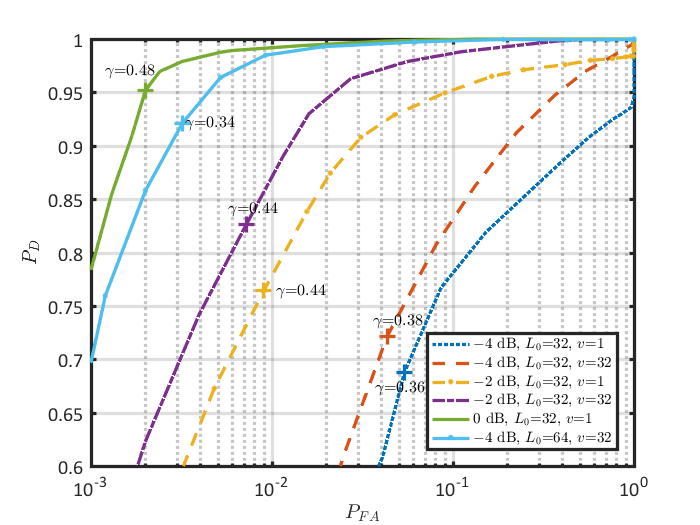
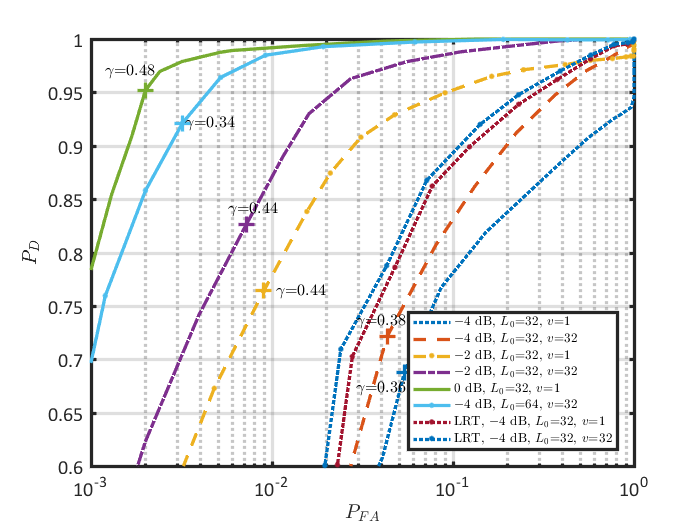
modification

Changed region(s): [[0.45, 0.2133, 0.9, 0.8838], [0.72, 0.0914, 0.87, 0.2133], [0.87, 0.061, 0.93, 0.0914]]

diff --git a/paper_3_10/freq_est.tex b/paper_3_10/freq_est.tex
@@ -58,9 +58,9 @@ In~\cite{Luise_Reggiannini_95}, the necessary condition is
 approximated by replacing the exponential with its Taylor series
 expansion. 
 In~\cite{Fitz_94}, an approximate solution is obtained via Euler's identity for large $N$.
-The estimators in Both~\cite{Luise_Reggiannini_95} and~\cite{Fitz_94}  have computational complexity $O(N^2)$ 
-reflecting the double summation.
-In~\cite{kay_89}, the  estimator reduces the complexity from $O(N^2)$
+The estimators (L\&R and Fitz) in both~\cite{Luise_Reggiannini_95} and~\cite{Fitz_94}  have computational complexity $O(N^2)$ 
+reflecting double summation.
+In~\cite{kay_89}, the Kay estimator reduces the complexity from $O(N^2)$
 to $O(N)$ by only
 computing~\eqref{eq:necessary condition for delta} at lag $k=1$.
 However, it suffers from poor accuracy even at moderate SNRs.
@@ -236,14 +236,14 @@ $k_v=\lfloor\frac{2N}{3v}\rfloor$ to minimize the variance.
 
 \subsubsection{Estimation range}
 The SL estimator may suffer an effect
-of akin to aliasing when  $2\pi |\delta|k_vv{>}\pi$.
-Thus, a safe estimation range for the estimator with optimal
+of akin to aliasing when  $2\pi M|\delta|k_vv{>}\pi$.
+Thus, a safe estimation range for the SL estimator with optimal
 $k_v=\lfloor\frac{2N}{3v}\rfloor$
 to avoid modulo-$2\pi$ ambiguity
-is $\delta$ within $\pm 3/(4MN)$.
-Compared with the same autocorrelation-based estimator,
+is $\delta$ within $\pm 3/(4MN)$. 
+Compared with the traditional autocorrelation-based estimator,
 e.g.,~\cite{Luise_Reggiannini_95} or~\cite{Fitz_94},
-the single-lag estimator has 
+the SL estimator has 
 $3/8$ estimation range of~\cite{Luise_Reggiannini_95} and $3/4$ estimation range of~\cite{Fitz_94}.
 
 \subsubsection{Computational complexity}
@@ -251,7 +251,7 @@ $3/8$ estimation range of~\cite{Luise_Reggiannini_95} and $3/4$ estimation range
 We have discussed the accuracy of the single-lag estimator.
 It is also necessary to address the complexity as the SL estimator
 is intended for real-time use with high sample rates.
-The computational complexity of the single-lag estimator 
+The computational complexity of the single-lag estimator
 can be readily assessed
 from~\eqref{eq:single_lag_estimator_w_partial_corr},~\eqref{eq:coherent_integrator}
 and~\eqref{eq:single_lag_estimator_wout_partial_corr}.
@@ -270,8 +270,8 @@ in Table~\ref{table:computational complexity comparison} with optimal $k_v \appr
 We see that $\hat{\delta}_{SL}^{(1)}(k)$ has approximately two times
 fewer complex products and additions compared with
 $\hat{\delta}_{SL}^{(v>1)}(k_v)$ in sequential detection. 
-Furthermore, note the complexity of the single-lag estimator
-in~\cite{Morelli_Mengali_98} is given as approximately $3N/4$ complex products and additions, 
+Furthermore, note the complexity of Kay estimator also with single lag
+is given as approximately $3N/4$ complex products and additions, 
 which is slightly larger than $\hat{\delta}_{SL}^{(1)}(k)$.
 
 \begin{table}[t]

diff --git a/paper_3_10/simulations.tex b/paper_3_10/simulations.tex
@@ -45,7 +45,7 @@ the accuracy of the estimator improves at all SNRs as $|\delta|$ decreases.
 % When  $\delta$ is very small, the accuracy of the SL estimator with $v=32$ has better accuracy at all SNRs.
 
 The SL estimators do not approach the Cramer-Rao Vector Bound (CRVB)~\cite{Gini_98} while the NM
-estimator does at high SNR. 
+estimators do at moderate SNR. 
 % We also see that the
 The NM estimator achieves improved accuracy at lower SNR
 when the SL estimator with $v=32$ is used as the starting point. 
@@ -87,12 +87,13 @@ Figure~\ref{fig:Receiver operating characteristics} shows the receiver
 operating characteristics (ROC) of the detection algorithm. 
 The better accuracy of SL estimation with partial integration also
 improves the detection performance  at low SNR.
-For example,
-at $\SI{-2}{\dB}$ SNR, $\gamma=0.44$, the false alarm probability $P_{FA}$ of SL with $v=32$ is reduced $0.2\%$ and 
+For example, at $\SI{-2}{\dB}$ SNR, $\gamma=0.44$, the false alarm probability $P_{FA}$ of SL with $v=32$ is reduced $0.2\%$ and 
 the detection probability $P_{D}$ is $5\%$ larger compared with the SL with $v{=}1$. 
-The figure also shows that the detector does not work well at $\SI{-4}{\dB}$ SNR if only $32$ symbols of preamble are used;  
+The figure also shows the detector does not work well at $\SI{-4}{\dB}$ SNR if only $32$ symbols of preamble are used;  
 The performance is significantly improved by doubling the length of
-the preamble.
+the preamble. The two curves of LRT at $\SI{-4}{\dB}$ SNR with different $v$
+are obtained by plugging in the true frequency and phase offsets as an upper bound for comparing with 
+the results of GLRT.   
 
 \begin{figure}[t]
   \centerline{\includegraphics[width=3.15in]{ROC_new.png}}

diff --git a/paper_3_10/detection.tex b/paper_3_10/detection.tex
@@ -5,8 +5,7 @@
   \centerline{\includegraphics[width=2.75in]{partial_preamble_detection.png}}
   \caption{The current window with local time-scale $n$ may contain a
     partial preamble. The preamble starts at $\bar{p}$ on global scale.
-    The start of the preamble relative to the start
-    of the window is $\Delta$. The cases $\Delta >0$ and $\Delta < 0$
+    The start of the preamble relative to the window is $\Delta$. The cases $\Delta >0$ and $\Delta < 0$
     are illustrated.}
   \label{fig:partial_preamble_detection}
   \end{figure}
